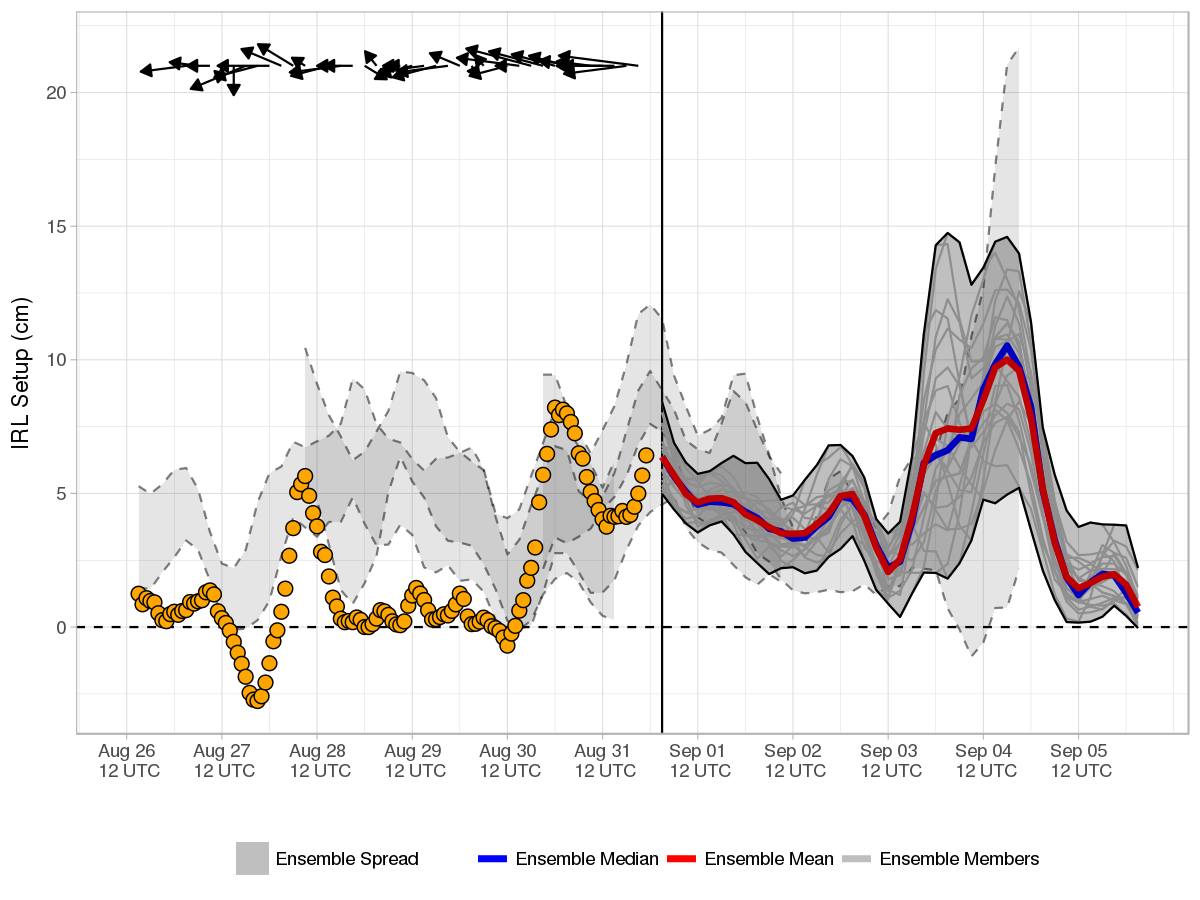
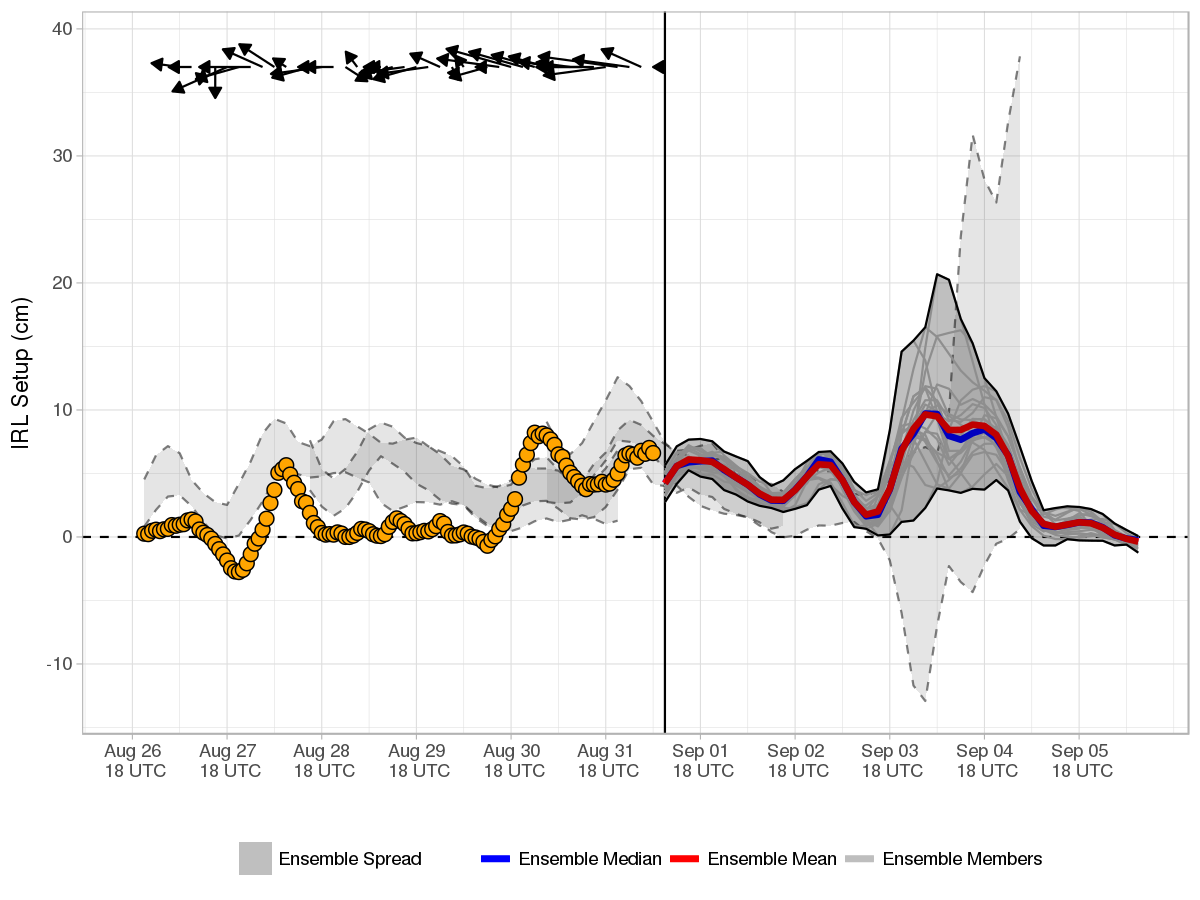
Forecast Update

diff --git a/docs/index.md b/docs/index.md
@@ -1,9 +1,9 @@
-Current Forecast 2018-08-31, Cycle 18 UTC
+Current Forecast 2018-09-01, Cycle 00 UTC
 -----------------------------------------
 
 [![](img/raw_setup.png)](https://fit-winds.github.io/IRLSetup/img/raw_setup.png)
 
-> Forecast valid 2018-08-31 20:20:19.
+> Forecast valid 2018-09-01 02:22:08.
 
 Explanation
 -----------
@@ -23,7 +23,7 @@ Ensemble Forecast System
 cycles. Calculation of the IRL setup is performed shortly after a new
 GEFS cycle is made available on the [data access
 link](http://www.ftp.ncep.noaa.gov/data/nccf/com/gens/prod/). The
-current cycle 2018-08-31 18 UTC 0.5° GEFS mean and median forecasts of
+current cycle 2018-09-01 00 UTC 0.5° GEFS mean and median forecasts of
 setup are represented by the red and blue curves, respectively. Ensemble
 spread from the current and three previous GEFS runs are shaded grey and
 bounded by solid and dashed curves, respectively.
